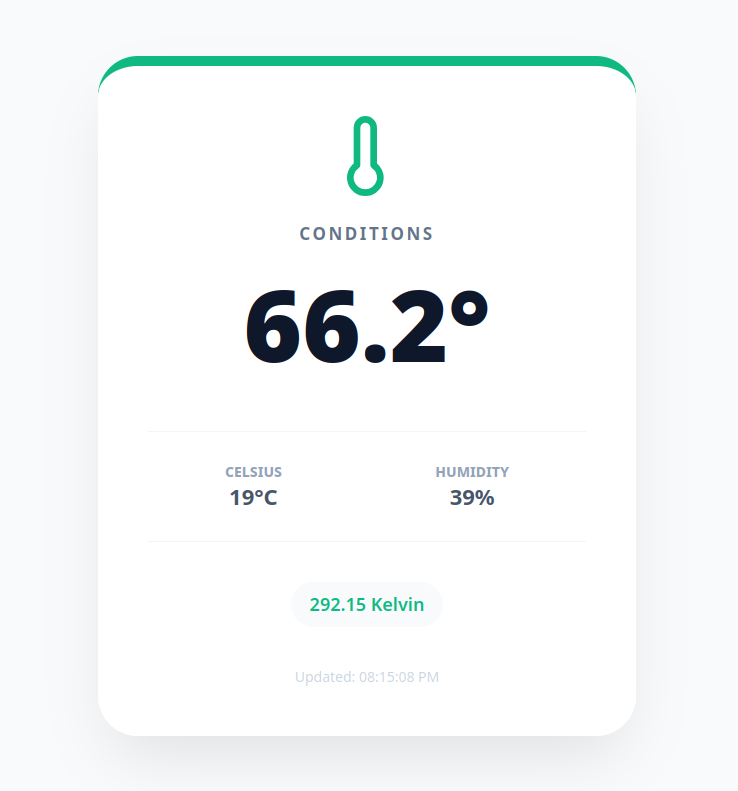
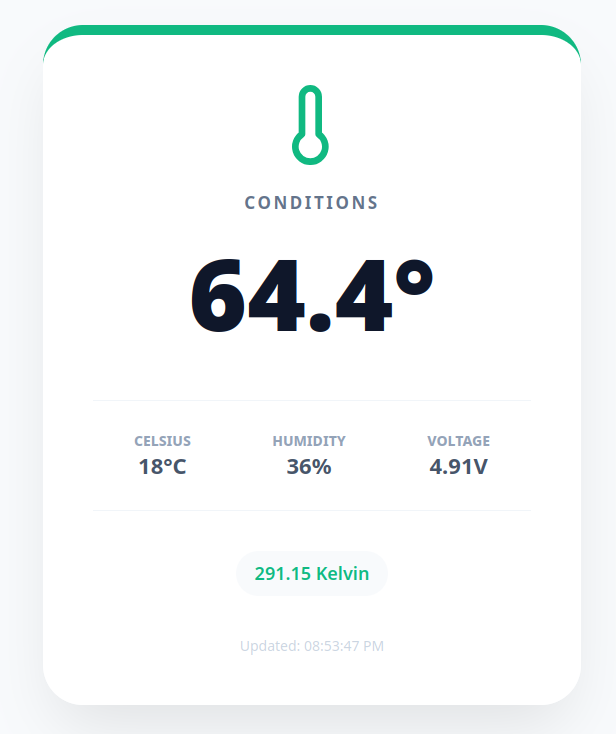
Fix hardware bug

diff --git a/pico/main.py b/pico/main.py
@@ -6,17 +6,18 @@ import time
 import json
 import urequests
 
+# Import your custom HTML helper
 from shared_html import get_html_template
 
 
 # --- Configuration Loader ---
 def load_config():
     conf = {
-        "MODE": "SERVER",
-        "SSID": "",
-        "PASSWORD": "",
+        "MODE": "PUSH",
+        "SSID": "YOUR_WIFI_NAME",
+        "PASSWORD": "YOUR_WIFI_PASSWORD",
         "SENSOR_PIN": 16,
-        "REPORT_URL": "",
+        "REPORT_URL": "http://your-server-ip/api",
         "SLEEP_MINS": 5,
     }
     try:
@@ -29,13 +30,34 @@ def load_config():
                     else:
                         conf[k] = v
     except Exception:
-        pass
-    print(f"Loaded config: {conf}")
+        print("Using default config (ensure .env exists for custom settings)")
     return conf
 
 
+# --- Power & Battery Sensing ---
+def is_usb_powered():
+    """Detects if VBUS (USB) power is present to avoid the deepsleep reset glitch."""
+    try:
+        return machine.Pin("WL_GPIO2", machine.Pin.IN).value() == 1
+    except Exception:
+        return False
+
+
+def get_vsys_voltage():
+    """Reads the voltage on the VSYS pin for AA battery monitoring."""
+    try:
+        # Pin 29 on Pico W monitors VSYS
+        vsys_adc = machine.ADC(29)
+        raw = vsys_adc.read_u16()
+        # Formula: (Reading / 65535) * 3.3V Reference * 3 (Voltage Divider)
+        voltage = (raw * 3.3 * 3) / 65535
+        return round(voltage, 2)
+    except Exception:
+        return 0.0
+
+
 def get_reading(pin_num):
-    """Fetches data from DHT11 and processes units."""
+    """Fetches data from DHT11 and includes battery level."""
     try:
         sensor = dht.DHT11(machine.Pin(pin_num))
         sensor.measure()
@@ -45,15 +67,30 @@ def get_reading(pin_num):
             "status": "ok",
             "temp_c": round(c, 1),
             "temp_f": round(c * 9 / 5 + 32, 1),
-            "temp_k": round(c + 273.15, 2),
             "hum": h,
+            "vsys_volts": get_vsys_voltage(),
             "runtime_s": time.ticks_ms() // 1000,
         }
     except Exception as e:
-        return {"status": "error", "message": str(e)}
+        return {"status": "error", "message": str(e), "vsys_volts": get_vsys_voltage()}
 
 
-# --- Server / Routing Logic ---
+# --- Networking ---
+def connect_wifi(ssid, pw):
+    wlan = network.WLAN(network.STA_IF)
+    wlan.active(True)
+    if not wlan.isconnected():
+        print(f"Connecting to {ssid}...")
+        wlan.connect(ssid, pw)
+        for _ in range(15):
+            if wlan.isconnected():
+                print(f"Connected! IP: {wlan.ifconfig()[0]}")
+                return wlan
+            time.sleep(1)
+    return wlan if wlan.isconnected() else None
+
+
+# --- Mode: Server ---
 def run_as_server(wlan, pin):
     ip = wlan.ifconfig()[0]
     s = socket.socket()
@@ -67,16 +104,14 @@ def run_as_server(wlan, pin):
         try:
             cl, _ = s.accept()
             req = cl.recv(1024).decode("utf-8")
-
-            # Simple Router
-            is_api = "GET /api" in req
             data = get_reading(pin)
 
-            if is_api:
+            # Route Handling
+            if "GET /api" in req:
                 content = json.dumps(data)
                 mimetype = "application/json"
             else:
-                content = get_html_template(data)
+                content = get_html_template(data)  # Uses your shared_html.py
                 mimetype = "text/html"
 
             response = (
@@ -94,44 +129,68 @@ def run_as_server(wlan, pin):
                 cl.close()
 
 
-# --- Push Logic ---
-def run_as_push(wlan, pin, url, sleep_mins):
-    data = get_reading(pin)
-    if wlan:
-        try:
-            r = urequests.post(url, json=data, timeout=5)
-            r.close()
-        except Exception:
-            pass
-        wlan.active(False)
-    print(f"Sleeping for {sleep_mins} mins...")
-    machine.deepsleep(sleep_mins * 60 * 1000)
+# --- Mode: Push ---
+def run_as_push(wlan, config):
+    pin = config["SENSOR_PIN"]
+    url = config["REPORT_URL"]
+    sleep_mins = config["SLEEP_MINS"]
+
+    usb_mode = is_usb_powered()
+
+    while True:
+        # 1. Check if wlan is None or disconnected, and try to reconnect
+        if wlan is None or not wlan.isconnected():
+            wlan = connect_wifi(config["SSID"], config["PASSWORD"])
+
+        # 2. Get data
+        data = get_reading(pin)
+
+        # 3. Only attempt push if wlan is NOT None
+        if wlan and wlan.isconnected():
+            print(f"Pushing: {data['temp_f']}F | {data['vsys_volts']}V")
+            try:
+                r = urequests.post(url, json=data, timeout=5)
+                r.close()
+            except Exception:
+                print("Failed to reach server")
+        else:
+            print("Skipping push: No Wi-Fi connection")
+
+        # 4. Smart Sleep
+        if usb_mode:
+            print(f"Waiting {sleep_mins}m (USB Loop)...")
+            # Safety check for Pylance/Runtime
+            if wlan:
+                wlan.active(False)
+
+            time.sleep(sleep_mins * 60)
+
+            if wlan:
+                wlan.active(True)
+        else:
+            print(f"Deep Sleeping {sleep_mins}m...")
+            if wlan:
+                wlan.active(False)
+            time.sleep(1)
+            machine.deepsleep(sleep_mins * 60 * 1000)
 
 
-def connect_wifi(ssid, pw):
-    wlan = network.WLAN(network.STA_IF)
-    wlan.active(True)
-    wlan.connect(ssid, pw)
-    for _ in range(15):
-        if wlan.isconnected():
-            return wlan
-        time.sleep(1)
-    return None
-
-
+# --- Main Entry ---
 def main():
     config = load_config()
     wlan = connect_wifi(config["SSID"], config["PASSWORD"])
 
+    # If wlan is None, we still proceed to run_as_push
+    # because that function now handles reconnection attempts.
     if config["MODE"].upper() == "SERVER":
-        if not wlan:
+        if wlan:
+            run_as_server(wlan, config["SENSOR_PIN"])
+        else:
+            print("Server mode requires Wi-Fi. Resetting in 10s...")
             time.sleep(10)
             machine.reset()
-        run_as_server(wlan, config["SENSOR_PIN"])
     else:
-        run_as_push(
-            wlan, config["SENSOR_PIN"], config["REPORT_URL"], config["SLEEP_MINS"]
-        )
+        run_as_push(wlan, config)
 
 
 if __name__ == "__main__":

diff --git a/app.py b/app.py
@@ -11,6 +11,7 @@ last_data = {
     "temp_f": "--", 
     "temp_k": "--", 
     "hum": "--", 
+    "vsys_volts": "--",
     "status": "Waiting...", 
     "time": "No data yet"
 }
@@ -48,8 +49,15 @@ def receive_data():
     
     # Add a laptop-side timestamp so we know exactly when it arrived
     last_data['time'] = datetime.now().strftime("%I:%M:%S %p")
+
+    # Calculate Kelvin since it's not sent by Pico anymore
+    if 'temp_c' in last_data:
+        try:
+            last_data['temp_k'] = round(float(last_data['temp_c']) + 273.15, 2)
+        except (ValueError, TypeError):
+            last_data['temp_k'] = "--"
     
-    print(f"[{last_data['time']}] Update from Pico: {last_data.get('temp_f')}°F | {last_data.get('hum')}% Hum")
+    print(f"[{last_data['time']}] Update from Pico: {last_data.get('temp_f')}°F | {last_data.get('hum')}% Hum | {last_data.get('vsys_volts')}V")
     
     return jsonify({"status": "success"}), 200
 

diff --git a/pico/shared_html.py b/pico/shared_html.py
@@ -57,6 +57,7 @@ def get_html_template(data):
         <div class="grid">
             <div class="stat-item"><span class="stat-label">CELSIUS</span><span class="stat-val">{data.get("temp_c", "--")}°C</span></div>
             <div class="stat-item"><span class="stat-label">HUMIDITY</span><span class="stat-val">{data.get("hum", "--")}%</span></div>
+            <div class="stat-item"><span class="stat-label">VOLTAGE</span><span class="stat-val">{data.get("vsys_volts", "--")}V</span></div>
         </div>
         <div class="tag">{data.get("temp_k", "--")} Kelvin</div>
         <div class="footer">Updated: {data.get("time", data.get("runtime_s", "Live"))}</div>

diff --git a/README.md b/README.md
@@ -59,6 +59,18 @@ SLEEP_MINS=30
 
 Upload all files inside the `/pico` directory to the root of your Raspberry Pi Pico W using Thonny or VS Code (Pico-W-Go).
 
+## 🔌 Wiring Guide (DHT11)
+
+Connect the DHT11 sensor to the Raspberry Pi Pico W as follows:
+
+| DHT11 Pin | Pico W Pin | Description |
+|-----------|------------|-------------|
+| **VCC (+)** | 3V3 (Pin 36) | Power (3.3V) |
+| **DATA (Out)** | GP16 (Pin 21) | Data Signal |
+| **GND (-)** | GND (Pin 38) | Ground |
+
+> **Note**: If you are using a raw DHT11 sensor (4-pin) instead of a module (3-pin), you will need a 10kΩ pull-up resistor between VCC and DATA. Most breakout boards include this resistor.
+
 ## 🎨 UI Logic
 
 The dashboard is driven by shared_html.py. It calculates the visual state based on the temperature in Fahrenheit:
